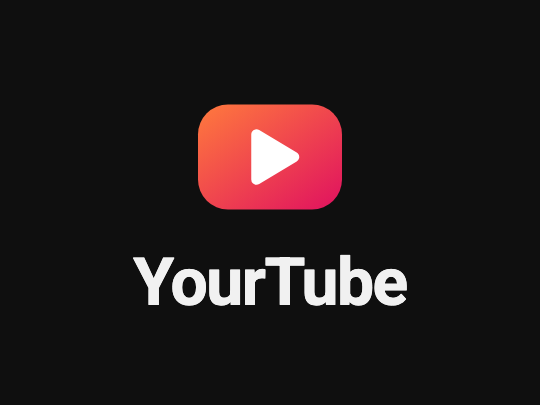
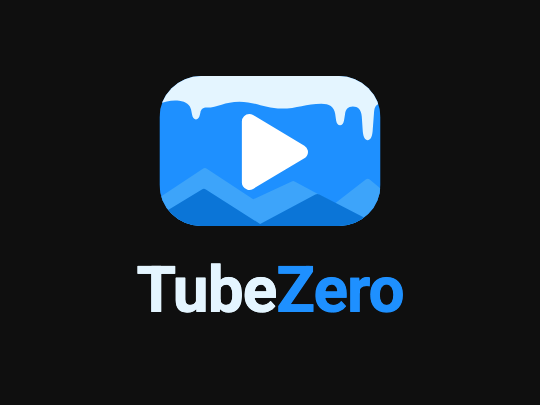
Rebrand to TubeZero
New name in every visible place (TV title, launcher, Info, cast name, phone pages,
build zip). New mark redrawn from the provided concept: blue rounded player,
snow cap with three drips, two frozen ridges, white play. Wordmark Ice White
+ TubeZero Blue on the charcoal UI. brand-svgs.py builds the branding SVGs
from the mark; make-brand.sh renders the tile, splash and logos. The phone web
app is rebranded at build time by a Vite plugin. The side menu's collapsed mark
now fades out when the wordmark shows.

Changed region(s): [[0.2963, 0.1778, 0.7111, 0.563], [0.237, 0.6222, 0.7704, 0.7704]]

diff --git a/branding/web/logo-light.svg.svelte b/branding/web/logo-light.svg.svelte
@@ -1,0 +1,16 @@
+<svg xmlns="http://www.w3.org/2000/svg" width="118" height="26" viewBox="0 0 118 26"><g transform="translate(-1.32 -5.53) scale(0.07237)"><defs>
+    <clipPath id="tz-light"><rect x="32" y="104" width="448" height="304" rx="84"/></clipPath>
+  </defs>
+  <g clip-path="url(#tz-light)">
+    <!-- sky -->
+    <rect x="32" y="104" width="448" height="304" fill="#1E90FF"/>
+    <!-- back ridge -->
+    <path d="M32 350 L120 292 Q124 289 128 292 L222 354 L300 318 Q303 316 306 318 L388 362 L450 314 Q454 311 458 314 L480 332 V408 H32 Z" fill="#3DA4FA"/>
+    <!-- front ridge -->
+    <path d="M32 386 L118 334 Q122 331 126 334 L236 404 L348 344 Q352 342 356 344 L480 408 H32 Z" fill="#0B75D7"/>
+    <!-- snow cap: small drip left, medium and long drips right -->
+    <path d="M32 104 H480 V160 C472 160 468 166 467 176 L464 216 C463 228 459 234 454 234 C449 234 445 228 444 216 L442 186 C441 172 434 166 424 166 C414 166 409 172 408 182 L406 194 C405 200 402 204 398 204 C394 204 391 200 390 194 L388 180 C386 166 376 160 360 160 C330 160 310 170 280 170 C246 170 226 156 194 156 C164 156 150 168 128 168 C120 168 116 172 115 178 L114 182 C113 188 110 192 106 192 C102 192 99 188 98 182 L96 172 C94 162 86 156 72 154 C56 152 44 156 32 160 Z" fill="#E4F5FF"/>
+    <!-- play -->
+    <path d="M214 196 L318 258 L214 320 Z" fill="#FFFFFF" stroke="#FFFFFF" stroke-width="30" stroke-linejoin="round"/>
+  </g>
+</g><text x="39.4" y="19.5" font-size="18" font-family="Roboto,Helvetica Neue,Helvetica,Arial,sans-serif" font-weight="700" letter-spacing="-0.5"><tspan fill="#092348">Tube</tspan><tspan fill="#1E90FF">Zero</tspan></text></svg>

diff --git a/branding/web/logo-dark.svg.svelte b/branding/web/logo-dark.svg.svelte
@@ -1,0 +1,16 @@
+<svg xmlns="http://www.w3.org/2000/svg" width="118" height="26" viewBox="0 0 118 26"><g transform="translate(-1.32 -5.53) scale(0.07237)"><defs>
+    <clipPath id="tz-dark"><rect x="32" y="104" width="448" height="304" rx="84"/></clipPath>
+  </defs>
+  <g clip-path="url(#tz-dark)">
+    <!-- sky -->
+    <rect x="32" y="104" width="448" height="304" fill="#1E90FF"/>
+    <!-- back ridge -->
+    <path d="M32 350 L120 292 Q124 289 128 292 L222 354 L300 318 Q303 316 306 318 L388 362 L450 314 Q454 311 458 314 L480 332 V408 H32 Z" fill="#3DA4FA"/>
+    <!-- front ridge -->
+    <path d="M32 386 L118 334 Q122 331 126 334 L236 404 L348 344 Q352 342 356 344 L480 408 H32 Z" fill="#0B75D7"/>
+    <!-- snow cap: small drip left, medium and long drips right -->
+    <path d="M32 104 H480 V160 C472 160 468 166 467 176 L464 216 C463 228 459 234 454 234 C449 234 445 228 444 216 L442 186 C441 172 434 166 424 166 C414 166 409 172 408 182 L406 194 C405 200 402 204 398 204 C394 204 391 200 390 194 L388 180 C386 166 376 160 360 160 C330 160 310 170 280 170 C246 170 226 156 194 156 C164 156 150 168 128 168 C120 168 116 172 115 178 L114 182 C113 188 110 192 106 192 C102 192 99 188 98 182 L96 172 C94 162 86 156 72 154 C56 152 44 156 32 160 Z" fill="#E4F5FF"/>
+    <!-- play -->
+    <path d="M214 196 L318 258 L214 320 Z" fill="#FFFFFF" stroke="#FFFFFF" stroke-width="30" stroke-linejoin="round"/>
+  </g>
+</g><text x="39.4" y="19.5" font-size="18" font-family="Roboto,Helvetica Neue,Helvetica,Arial,sans-serif" font-weight="700" letter-spacing="-0.5"><tspan fill="#E4F5FF">Tube</tspan><tspan fill="#1E90FF">Zero</tspan></text></svg>

diff --git a/playlet-web/vite.config.ts b/playlet-web/vite.config.ts
@@ -1,5 +1,5 @@
 import { visualizer } from 'rollup-plugin-visualizer';
-import { defineConfig, UserConfig } from 'vite'
+import { defineConfig, Plugin, UserConfig } from 'vite'
 import { svelte } from '@sveltejs/vite-plugin-svelte'
 import viteCompression from 'vite-plugin-compression';
 import ip from 'ip';
@@ -10,8 +10,34 @@ import legacy from '@vitejs/plugin-legacy'
 
 const PORT = 5173
 
+// TubeZero: build-time rebrand, so upstream Playlet sources stay untouched (mergeable). Swaps the nav logos for
+// branding/web/*.svg.svelte and renames the word "Playlet" in visible text. The lookarounds skip identifiers and
+// header names like PlayletApi or X-Playlet.
+const PLAYLET_WORD = /(?<![\w-])Playlet(?![\w-])/g
+function tubeZeroRebrand(): Plugin {
+  const brandDir = joinPath(import.meta.dirname, '../branding/web')
+  return {
+    name: 'tubezero-rebrand',
+    enforce: 'pre',
+    load(id) {
+      const logo = id.match(/assets\/(logo-(dark|light)\.svg\.svelte)$/)
+      return logo ? readFileSync(joinPath(brandDir, logo[1]), 'utf8') : null
+    },
+    transform(code, id) {
+      if (id.includes('node_modules') || !/\/src\/.*\.(svelte|ts)$/.test(id)) {
+        return null
+      }
+      return code.replace(PLAYLET_WORD, 'TubeZero')
+    },
+    transformIndexHtml(html) {
+      return html.replace(PLAYLET_WORD, 'TubeZero')
+    },
+  }
+}
+
 const config: UserConfig = {
   plugins: [
+    tubeZeroRebrand(),
     svelte(),
     legacy({
       targets: ['defaults', 'not IE 11'],

diff --git a/tools/yourtube/install-zip.js b/tools/yourtube/install-zip.js
@@ -1,6 +1,6 @@
 // YourTube: sideloads one zip to the TV's dev installer (replaces the current dev app).
 // Reads ROKU_DEV_TARGET / ROKU_DEVPASSWORD from .env (gitignored). Never prints the password.
-// Usage: node tools/yourtube/install-zip.js [path/to/YourTube-*.zip]   (default: newest in out/)
+// Usage: node tools/yourtube/install-zip.js [path/to/TubeZero-*.zip]   (default: newest in out/)
 const path = require('path');
 const fs = require('fs');
 const rokuDeploy = require('roku-deploy');
@@ -8,7 +8,7 @@ const getEnvVars = require('../get-env-vars');
 
 function newestZip(dir) {
     const zips = fs.readdirSync(dir)
-        .filter((f) => /^YourTube-.*\.zip$/.test(f))
+        .filter((f) => /^TubeZero-.*\.zip$/.test(f))
         .map((f) => ({ f, t: fs.statSync(path.join(dir, f)).mtimeMs }))
         .sort((a, b) => b.t - a.t);
     return zips.length ? path.join(dir, zips[0].f) : undefined;
@@ -18,7 +18,7 @@ function newestZip(dir) {
     const config = getEnvVars(['ROKU_DEV_TARGET', 'ROKU_DEVPASSWORD']);
     const zip = path.resolve(process.argv[2] || newestZip(path.join(__dirname, '../../out')) || '');
     if (!fs.existsSync(zip)) {
-        console.error('No YourTube zip found in out/. Build one with tools/yourtube-build.sh.');
+        console.error('No TubeZero zip found in out/. Build one with tools/yourtube-build.sh.');
         process.exit(1);
     }
     try {

diff --git a/tools/bs-plugins/yourtube-rebrand-plugin.ts b/tools/bs-plugins/yourtube-rebrand-plugin.ts
@@ -11,7 +11,7 @@ import fs from 'fs-extra'
 import { exitOnCriticalErrors } from './critical-exit';
 
 const FROM = /\bPlaylet\b/g;
-const TO = 'YourTube';
+const TO = 'TubeZero';
 
 export class YourTubeRebrandPlugin implements CompilerPlugin {
     public name = 'YourTubeRebrandPlugin';

diff --git a/tools/yourtube/brand-svgs.py b/tools/yourtube/brand-svgs.py
@@ -1,0 +1,65 @@
+#!/usr/bin/env python3
+# TubeZero: builds branding/{mark,logo-wordmark,poster,splash}.svg from branding/tubezero-mark.svg.
+# Wordmark on the dark UI: "Tube" in Ice White, "Zero" in TubeZero Blue. Backgrounds stay charcoal (#0F0F0F).
+# Then run tools/yourtube/make-brand.sh to render them into the app images.
+import os, re
+
+ROOT = os.path.abspath(os.path.join(os.path.dirname(__file__), '..', '..'))
+BRAND = os.path.join(ROOT, 'branding')
+src = open(os.path.join(BRAND, 'tubezero-mark.svg')).read()
+inner = src[src.index('<defs>'):src.rindex('</svg>')]
+bx, by, bw, bh = (float(v) for v in re.search(r'<rect x="([\d.]+)" y="([\d.]+)" width="([\d.]+)" height="([\d.]+)"', src).groups())
+
+FONT = ('<style>@font-face{font-family:YTRoboto;font-weight:700;src:url("../playlet-lib/src/fonts/roboto/Roboto-Bold.ttf")}'
+        'text{font-family:YTRoboto,Roboto,"Helvetica Neue",Helvetica,Arial,sans-serif;font-weight:700;letter-spacing:-1px}</style>')
+
+
+def mark(x, y, h, cid):
+    """The mark's body scaled to height h with its top-left at (x, y)."""
+    s = h / bh
+    body = inner.replace('id="rounded"', f'id="{cid}"').replace('url(#rounded)', f'url(#{cid})')
+    return f'<g transform="translate({x - bx * s:.2f} {y - by * s:.2f}) scale({s:.5f})">{body}</g>'
+
+
+def width(h):
+    return bw * h / bh
+
+
+def word(x, y, size, anchor='start'):
+    return (f'<text x="{x:.1f}" y="{y}" font-size="{size}" text-anchor="{anchor}">'
+            '<tspan fill="#E4F5FF">Tube</tspan><tspan fill="#1E90FF">Zero</tspan></text>')
+
+
+def svg(w, h, body):
+    return f'<svg xmlns="http://www.w3.org/2000/svg" width="{w}" height="{h}" viewBox="0 0 {w} {h}">{body}</svg>\n'
+
+
+def write(name, text):
+    open(os.path.join(BRAND, name), 'w').write(text)
+
+
+# mark alone, centered in a square (app favicon / top-left logo)
+h = 64
+write('mark.svg', svg(100, 100, mark((100 - width(h)) / 2, (100 - h) / 2, h, 'm')))
+# mark + wordmark for the dark UI (254x100)
+# (drawn at 106x42 in the nav and 76x30 in the top bar, so the gap and type are generous)
+h = 46
+write('logo-wordmark.svg', svg(254, 100, FONT + mark(2, (100 - h) / 2, h, 'm') + word(2 + width(h) + 16, 62, 33)))
+# Roku home tile (540x405)
+h = 150
+write('poster.svg', svg(540, 405, FONT + '<rect width="540" height="405" fill="#0F0F0F"/>'
+                        + mark((540 - width(h)) / 2, 76, h, 'm') + word(270, 312, 64, 'middle')))
+# splash (1920x1080)
+h = 260
+write('splash.svg', svg(1920, 1080, FONT + '<rect width="1920" height="1080" fill="#0F0F0F"/>'
+                        + mark((1920 - width(h)) / 2, 330, h, 'm') + word(960, 720, 104, 'middle')))
+# phone web app nav logos (Svelte components swapped in by playlet-web/vite.config.ts); light theme uses navy "Tube"
+os.makedirs(os.path.join(BRAND, 'web'), exist_ok=True)
+for theme, tube in (('dark', '#E4F5FF'), ('light', '#092348')):
+    h = 22
+    body = (mark(1, 2, h, f'tz-{theme}') + f'<text x="{1 + width(h) + 6:.1f}" y="19.5" font-size="18" '
+            'font-family="Roboto,Helvetica Neue,Helvetica,Arial,sans-serif" font-weight="700" letter-spacing="-0.5">'
+            f'<tspan fill="{tube}">Tube</tspan><tspan fill="#1E90FF">Zero</tspan></text>')
+    write(os.path.join('web', f'logo-{theme}.svg.svelte'), svg(118, 26, body))
+
+print('branding SVGs written')

diff --git a/README.md b/README.md
@@ -1,10 +1,10 @@
 <p align="center">
-  <img src="branding/mark.svg" alt="YourTube mark" width="120"/>
+  <img src="branding/tubezero-mark.svg" alt="TubeZero mark" width="140"/>
 </p>
 
-# YourTube
+# TubeZero
 
-A personal, ad-free YouTube client for Roku TVs, styled after the YouTube TV app. YourTube is a fork of
+A personal, ad-free YouTube client for Roku TVs, styled after the YouTube TV app. TubeZero is a fork of
 [Playlet](https://github.com/iBicha/playlet) by Brahim Hadriche and is licensed under the same
 [AGPL-3.0](LICENSE). It is not affiliated with YouTube or Google, and it uses none of their logos or brand assets.
 
@@ -37,7 +37,7 @@ npm install
 tools/yourtube-build.sh
 ```
 
-That writes `out/YourTube-<version>-<commit>.zip`. Upload it from the Roku's developer page
+That writes `out/TubeZero-<version>-<commit>.zip`. Upload it from the Roku's developer page
 (`http://<roku-ip>`), or let the installer do it. The installer reads `ROKU_DEV_TARGET` and the developer
 password from a git-ignored `.env`:
 
@@ -55,7 +55,7 @@ tools/yourtube/capture-all.sh
 
 Most of the restyle happens at build time in `tools/bs-plugins/yourtube-rebrand-plugin.ts` (palette, fonts, focus
 images, widget defaults). New features live in `playlet-lib/src/components/YourTube/`. Upstream files that do change
-carry a `' YourTube:` (or `<!-- YourTube: -->`) comment at each edit.
+carry a `' TubeZero:` (or `<!-- TubeZero: -->`) comment at each edit.
 
 ## Credits
 
@@ -64,5 +64,5 @@ carry a `' YourTube:` (or `<!-- YourTube: -->`) comment at each edit.
 - [Roboto](https://fonts.google.com/specimen/Roboto) (SIL Open Font License) and
   [Material Symbols](https://fonts.google.com/icons) (Apache 2.0) by Google.
 
-The source for this build is at [github.com/altextreme/YourTube](https://github.com/altextreme/YourTube), as the
+The source for this build is at [github.com/altextreme/TubeZero](https://github.com/altextreme/TubeZero), as the
 AGPL requires.

diff --git a/docs/CHANGELOG-YOURTUBE.md b/docs/CHANGELOG-YOURTUBE.md
@@ -1,8 +1,22 @@
-# YourTube changelog
+# TubeZero changelog
+
+(Called YourTube until 2026-10-24; file and code names keep the old name to avoid churn.)
 
 Changes on top of [Playlet](https://github.com/iBicha/playlet) (AGPL-3.0). Newest first.
 
-## Unreleased: Phase 3 comments, interaction pass
+## Unreleased: TubeZero
+
+### Rebrand to TubeZero
+- New name everywhere people see it: TV title, launcher, Info screen, cast name ("TubeZero on ..."), phone pages,
+  build zip (`out/TubeZero-*.zip`). The build-time rename now maps Playlet to TubeZero.
+- New mark (cleaned up from the provided concept): blue rounded player with a snow cap, layered frozen mountains and
+  a white play triangle. Wordmark "Tube" Ice White + "Zero" TubeZero Blue on the charcoal UI; navy "Tube" on light.
+  `tools/yourtube/brand-svgs.py` builds every branding SVG from `branding/tubezero-mark.svg`; `make-brand.sh`
+  renders the Roku tile, splash and logos (the UI 9-patches stay in `make-assets.sh`).
+- Phone web app: a Vite plugin swaps in the TubeZero logos and renames "Playlet" in visible text at build time.
+- Backgrounds stay charcoal; blue is only the brand color. Progress bars and LIVE badges stay YouTube red.
+
+## Phase 3 comments, interaction pass
 
 ### Comments (Phase 3)
 - Comments button in the player action row opens a side panel over the video. It pages comments in as you
